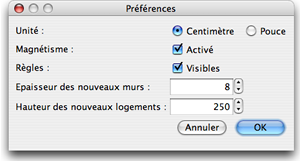
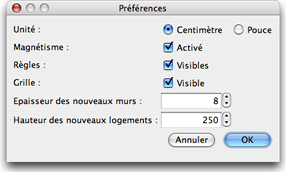
Added grid visibility to user preferences

Changed region(s): [[0.0, 0.0, 0.979, 0.9627]]

diff --git a/SweetHome3D/src/com/eteks/sweethome3d/swing/resources/help/fr/editingPreferences.html b/SweetHome3D/src/com/eteks/sweethome3d/swing/resources/help/fr/editingPreferences.html
@@ -28,7 +28,7 @@
 	<tr>
 	<td><p>Pour &eacute;diter les pr&eacute;f&eacute;rences de Sweet Home 3D, choisissez <i>Sweet Home 3D &gt; Pr&eacute;f&eacute;rences...</i> sous
 	    Mac OS X ou <i>Fichier &gt; Pr&eacute;f&eacute;rences...</i> sous les autres syst&egrave;mes d'exploitation.</p>
-	  <p align="center"><img src="images/editingPreferences.png" width="300" height="161"></p>
+	  <p align="center"><img src="images/editingPreferences.png" width="286" height="172"></p>
 	  <p>Dans le panneau des pr&eacute;f&eacute;rences, vous pouvez choisir l'<i>Unit&eacute;</i> utilis&eacute;e pour dessiner
 	    les r&egrave;gles et la grille du plan du
 	    logement, et pour afficher les longueurs. <br>
@@ -36,7 +36,9 @@
 	    au cours du dessin des murs et le positionnement des meubles.<br>
 	    La bo&icirc;te &agrave; cocher <i>R&egrave;gles</i> permet de rendre visibles ou invisibles les r&egrave;gles affich&eacute;es
 	    en haut et &agrave; gauche du plan.<br>
-	    La valeur de l'<i>Epaisseur des nouveaux murs</i> d&eacute;termine l'&eacute;paisseur des murs qui seront cr&eacute;&eacute;s
+	    La bo&icirc;te &agrave; cocher <i>Grille</i> permet de rendre visible ou invisible la grile affich&eacute;e
+	    sous le plan.<br>
+La valeur de l'<i>Epaisseur des nouveaux murs</i> d&eacute;termine l'&eacute;paisseur des murs qui seront cr&eacute;&eacute;s
 	    une fois que le panneau des pr&eacute;f&eacute;rences sera ferm&eacute;.<br>
 	    La valeur de la <i>Hauteur des nouveaux logements</i> d&eacute;termine la hauteur des murs des logements qui seront
 	    cr&eacute;&eacute;s

diff --git a/SweetHome3D/src/com/eteks/sweethome3d/swing/resources/help/en/editingPreferences.html b/SweetHome3D/src/com/eteks/sweethome3d/swing/resources/help/en/editingPreferences.html
@@ -28,18 +28,19 @@
 	<tr>
 	<td><p>To edit Sweet Home 3D preferences, choose <i>Sweet Home 3D &gt; Preferences...</i> on Mac OS X or <i>File &gt; Preferences...</i> on
 	    other systems.</p>
-	  <p align="center"><img src="images/editingPreferences.png" width="250" height="161"></p>
+	  <p align="center"><img src="images/editingPreferences.png" width="237" height="172"></p>
 	  <p>In preferences pane, you can choose the <i>Unit</i> used to draw home plan rulers and grid, and to display lengths.<br>
 	    The <i>Magnetism</i> check
 	    box enables or disables the magnetism used in home plan during <a href="drawingWalls.html">walls drawing</a> and <a href="editingFurniture.html">furniture
 	    placing</a>.<br>
 	    The <i>Rulers</i> check box allows to make plan rulers visible or invisible.<br>
-	    The <i>New walls thickness</i> value sets the thickness of all the walls that will be created once preferences pane
-	    will be closed.<br>
-	    The <i>New home walls height</i> value 
-	    sets the height of all the walls of new homes created once preferences pane will
-	    be closed.<br>
-	    </p>
+	    The <i>Grid</i> check box allows to make plan grid visible or invisible.<br>
+	      The <i>New walls thickness</i> value sets the thickness of all the walls that will be created once preferences pane
+	      will be closed.<br>
+	      The <i>New home walls height</i> value 
+	      sets the height of all the walls of new homes created once preferences pane will
+	      be closed.<br>
+        </p>
 	  </td>
 	</tr>
 </table>

diff --git a/SweetHome3D/src/com/eteks/sweethome3d/swing/UserPreferencesPanel.java b/SweetHome3D/src/com/eteks/sweethome3d/swing/UserPreferencesPanel.java
@@ -53,6 +53,8 @@ public class UserPreferencesPanel extends JPanel {
   private JCheckBox      magnetismCheckBox;
   private JLabel         rulersVisibleLabel;
   private JCheckBox      rulersCheckBox;
+  private JLabel         gridVisibleLabel;
+  private JCheckBox      gridCheckBox;
   private JLabel         newWallThicknessLabel;
   private JSpinner       newWallThicknessSpinner;
   private JLabel         newHomeWallHeightLabel;
@@ -93,6 +95,10 @@ public class UserPreferencesPanel extends JPanel {
     this.rulersCheckBox = new JCheckBox(
         this.resource.getString("rulersCheckBox.text"));
     
+    this.gridVisibleLabel = new JLabel(this.resource.getString("gridLabel.text"));
+    this.gridCheckBox = new JCheckBox(
+        this.resource.getString("gridCheckBox.text"));
+    
     this.newWallThicknessLabel = new JLabel(this.resource.getString("newWallThicknessLabel.text"));
     this.newWallThicknessSpinner = new JSpinner(new SpinnerLengthModel(
         0.5f, 0.125f, this.centimeterRadioButton));
@@ -114,6 +120,8 @@ public class UserPreferencesPanel extends JPanel {
           KeyStroke.getKeyStroke(this.resource.getString("magnetismCheckBox.mnemonic")).getKeyCode());
       this.rulersCheckBox.setMnemonic(
           KeyStroke.getKeyStroke(this.resource.getString("rulersCheckBox.mnemonic")).getKeyCode());
+      this.gridCheckBox.setMnemonic(
+          KeyStroke.getKeyStroke(this.resource.getString("gridCheckBox.mnemonic")).getKeyCode());
       this.newWallThicknessLabel.setDisplayedMnemonic(
           KeyStroke.getKeyStroke(this.resource.getString("newWallThicknessLabel.mnemonic")).getKeyCode());
       this.newWallThicknessLabel.setLabelFor(this.newWallThicknessSpinner);
@@ -153,18 +161,25 @@ public class UserPreferencesPanel extends JPanel {
         1, 2, 2, 1, 0, 0, GridBagConstraints.WEST, 
         GridBagConstraints.NONE, rightComponentInsets, 0, 0));
     
-    add(this.newWallThicknessLabel, new GridBagConstraints(
+    add(this.gridVisibleLabel, new GridBagConstraints(
         0, 3, 1, 1, 0, 0, GridBagConstraints.WEST, 
         GridBagConstraints.NONE, labelInsets, 0, 0));
+    add(this.gridCheckBox, new GridBagConstraints(
+        1, 3, 2, 1, 0, 0, GridBagConstraints.WEST, 
+        GridBagConstraints.NONE, rightComponentInsets, 0, 0));
+    
+    add(this.newWallThicknessLabel, new GridBagConstraints(
+        0, 4, 1, 1, 0, 0, GridBagConstraints.WEST, 
+        GridBagConstraints.NONE, labelInsets, 0, 0));
     add(this.newWallThicknessSpinner, new GridBagConstraints(
-        1, 3, 1, 1, 0, 0, GridBagConstraints.WEST, 
+        1, 4, 1, 1, 0, 0, GridBagConstraints.WEST, 
         GridBagConstraints.HORIZONTAL, rightComponentInsets, 0, 0));
     
     add(this.newHomeWallHeightLabel, new GridBagConstraints(
-        0, 4, 1, 1, 0, 0, GridBagConstraints.WEST, 
+        0, 5, 1, 1, 0, 0, GridBagConstraints.WEST, 
         GridBagConstraints.NONE, new Insets(0, 0, 0, 5), 0, 0));
     add(this.newHomeWallHeightSpinner, new GridBagConstraints(
-        1, 4, 1, 1, 0, 0, GridBagConstraints.WEST, 
+        1, 5, 1, 1, 0, 0, GridBagConstraints.WEST, 
         GridBagConstraints.HORIZONTAL, new Insets(0, 0, 0, 0), 0, 0));
   }
 
@@ -181,6 +196,8 @@ public class UserPreferencesPanel extends JPanel {
         preferences.isMagnetismEnabled());    
     this.rulersCheckBox.setSelected(
         preferences.isRulersVisible());    
+    this.gridCheckBox.setSelected(
+        preferences.isGridVisible());    
     ((SpinnerLengthModel)this.newWallThicknessSpinner.getModel()).
         setLength(preferences.getNewWallThickness());
     ((SpinnerLengthModel)this.newHomeWallHeightSpinner.getModel()).
@@ -220,6 +237,13 @@ public class UserPreferencesPanel extends JPanel {
    */
   public boolean isRulersVisible() {
     return this.rulersCheckBox.isSelected();
+  } 
+  
+  /**
+   * Returns <code>true</code> if grid is visible in panel.
+   */
+  public boolean isGridVisible() {
+    return this.gridCheckBox.isSelected();
   } 
   
   /**

diff --git a/SweetHome3D/test/com/eteks/sweethome3d/junit/UserPreferencesPanelTest.java b/SweetHome3D/test/com/eteks/sweethome3d/junit/UserPreferencesPanelTest.java
@@ -62,10 +62,12 @@ public class UserPreferencesPanelTest extends TestCase {
         (JRadioButton)TestUtilities.getField(panel, "centimeterRadioButton");
     JRadioButton inchRadioButton = 
         (JRadioButton)TestUtilities.getField(panel, "inchRadioButton");
-    JCheckBox    rulersCheckBox = 
-      (JCheckBox)TestUtilities.getField(panel, "rulersCheckBox");
     JCheckBox    magnetismCheckBox = 
         (JCheckBox)TestUtilities.getField(panel, "magnetismCheckBox");
+    JCheckBox    rulersCheckBox = 
+      (JCheckBox)TestUtilities.getField(panel, "rulersCheckBox");
+    JCheckBox    gridCheckBox = 
+      (JCheckBox)TestUtilities.getField(panel, "gridCheckBox");
     JSpinner newWallThicknessSpinner = 
         (JSpinner)TestUtilities.getField(panel, "newWallThicknessSpinner");
     JSpinner newHomeWallHeightSpinner = 
@@ -77,6 +79,7 @@ public class UserPreferencesPanelTest extends TestCase {
         inchRadioButton.isSelected());
     assertTrue("Magnestism isn't selected", magnetismCheckBox.isSelected());
     assertTrue("Rulers isn't selected", rulersCheckBox.isSelected());
+    assertTrue("Grid isn't selected", gridCheckBox.isSelected());
     assertEquals("Wrong default thickness", 
         newWallThicknessSpinner.getValue(), defaultPreferences.getNewWallThickness());
     assertEquals("Wrong default wall height", 
@@ -86,6 +89,7 @@ public class UserPreferencesPanelTest extends TestCase {
     inchRadioButton.setSelected(true);
     magnetismCheckBox.setSelected(false);
     rulersCheckBox.setSelected(false);
+    gridCheckBox.setSelected(false);
     newWallThicknessSpinner.setValue(1);
     newHomeWallHeightSpinner.setValue(100);
     
@@ -93,10 +97,11 @@ public class UserPreferencesPanelTest extends TestCase {
     preferences.setUnit(panel.getUnit());
     preferences.setMagnetismEnabled(panel.isMagnetismEnabled());
     preferences.setRulersVisible(panel.isRulersVisible());
+    preferences.setGridVisible(panel.isGridVisible());
     preferences.setNewWallThickness(panel.getNewWallThickness());
     preferences.setNewHomeWallHeight(panel.getNewHomeWallHeight());
     // Check preferences value
-    assertPreferencesEqual(UserPreferences.Unit.INCH, false, false,
+    assertPreferencesEqual(UserPreferences.Unit.INCH, false, false, false,
         UserPreferences.Unit.inchToCentimeter(1), 
         UserPreferences.Unit.inchToCentimeter(100), 
         preferences);
@@ -108,6 +113,7 @@ public class UserPreferencesPanelTest extends TestCase {
     assertPreferencesEqual(preferences.getUnit(),
         preferences.isMagnetismEnabled(), 
         preferences.isRulersVisible(), 
+        preferences.isGridVisible(), 
         preferences.getNewWallThickness(),  
         preferences.getNewHomeWallHeight(), readPreferences);
   }
@@ -119,6 +125,7 @@ public class UserPreferencesPanelTest extends TestCase {
   private void assertPreferencesEqual(UserPreferences.Unit unit,
                                       boolean magnetism,
                                       boolean rulers,
+                                      boolean grid,
                                       float newWallThickness,
                                       float newHomeWallHeight,
                                       UserPreferences preferences) {
@@ -128,6 +135,8 @@ public class UserPreferencesPanelTest extends TestCase {
         preferences.isMagnetismEnabled());
     assertEquals("Wrong rulers visibility", rulers,
         preferences.isRulersVisible());
+    assertEquals("Wrong grid visibility", grid,
+        preferences.isGridVisible());
     assertEquals("Wrong new wall thickness", newWallThickness, 
         preferences.getNewWallThickness());
     assertEquals("Wrong new home wall height", newHomeWallHeight,

diff --git a/SweetHome3D/src/com/eteks/sweethome3d/swing/PlanComponent.java b/SweetHome3D/src/com/eteks/sweethome3d/swing/PlanComponent.java
@@ -354,6 +354,8 @@ public class PlanComponent extends JComponent implements Scrollable, Printable {
       });
     preferences.addPropertyChangeListener(UserPreferences.Property.UNIT, 
         new UnitChangeListener(this));
+    preferences.addPropertyChangeListener(UserPreferences.Property.GRID_VISIBLE, 
+        new GridVisibleChangeListener(this));
   }
 
   /**
@@ -381,6 +383,29 @@ public class PlanComponent extends JComponent implements Scrollable, Printable {
         if (planComponent.verticalRuler != null) {
           planComponent.verticalRuler.repaint();
         }
+      }
+    }
+  }
+
+  /**
+   * Preferences property listener bound to this component with a weak reference to avoid
+   * strong link between preferences and this component.  
+   */
+  private static class GridVisibleChangeListener implements PropertyChangeListener {
+    private WeakReference<PlanComponent>  planComponent;
+
+    public GridVisibleChangeListener(PlanComponent planComponent) {
+      this.planComponent = new WeakReference<PlanComponent>(planComponent);
+    }
+    
+    public void propertyChange(PropertyChangeEvent ev) {
+      // If plan component was garbage collected, remove this listener from preferences
+      PlanComponent planComponent = this.planComponent.get();
+      if (planComponent == null) {
+        ((UserPreferences)ev.getSource()).removePropertyChangeListener(
+            UserPreferences.Property.UNIT, this);
+      } else {
+        planComponent.repaint();
       }
     }
   }
@@ -655,7 +680,9 @@ public class PlanComponent extends JComponent implements Scrollable, Printable {
     setRenderingHints(g2D);
     // Paint component contents
     paintBackgroundImage(g2D);
-    paintGrid(g2D, this.scale);
+    if (this.preferences.isGridVisible()) {
+      paintGrid(g2D, this.scale);
+    }
     paintContent(g2D, this.scale, backgroundColor, foregroundColor, PaintMode.PAINT);   
     g2D.dispose();
   }

diff --git a/SweetHome3D/src/com/eteks/sweethome3d/model/UserPreferences.java b/SweetHome3D/src/com/eteks/sweethome3d/model/UserPreferences.java
@@ -30,7 +30,7 @@ import java.util.List;
  * @author Emmanuel Puybaret
  */
 public abstract class UserPreferences {
-  public enum Property {UNIT, MAGNETISM_ENABLED, RULERS_VISIBLE,  
+  public enum Property {UNIT, MAGNETISM_ENABLED, RULERS_VISIBLE, GRID_VISIBLE, 
                         NEW_HOME_WALL_HEIGHT, NEW_WALL_THICKNESS, RECENT_HOMES}
   
   private PropertyChangeSupport propertyChangeSupport;
@@ -58,6 +58,7 @@ public abstract class UserPreferences {
   private Unit         unit;
   private boolean      magnetismEnabled = true;
   private boolean      rulersVisible    = true;
+  private boolean      gridVisible      = true;
   private float        newWallThickness;
   private float        newHomeWallHeight;
   private List<String> recentHomes;
@@ -159,6 +160,28 @@ public abstract class UserPreferences {
       this.rulersVisible = rulersVisible;
       this.propertyChangeSupport.firePropertyChange(Property.RULERS_VISIBLE.toString(), 
           !rulersVisible, rulersVisible);
+    }
+  }
+  
+  /**
+   * Returns <code>true</code> if plan grid visible.
+   * @return <code>true</code> by default.
+   */
+  public boolean isGridVisible() {
+    return this.gridVisible;
+  }
+  
+  /**
+   * Sets whether plan grid is visible or not, and notifies
+   * listeners of this change. 
+   * @param gridVisible <code>true</code> if grid is visible,
+   *          <code>false</code> otherwise.
+   */
+  public void setGridVisible(boolean gridVisible) {
+    if (this.gridVisible != gridVisible) {
+      this.gridVisible = gridVisible;
+      this.propertyChangeSupport.firePropertyChange(Property.GRID_VISIBLE.toString(), 
+          !gridVisible, gridVisible);
     }
   }
 

diff --git a/SweetHome3D/src/com/eteks/sweethome3d/io/FileUserPreferences.java b/SweetHome3D/src/com/eteks/sweethome3d/io/FileUserPreferences.java
@@ -54,6 +54,7 @@ public class FileUserPreferences extends UserPreferences {
   private static final String UNIT                      = "unit";
   private static final String MAGNETISM_ENABLED         = "magnetismEnabled";
   private static final String RULERS_VISIBLE            = "rulersVisible";
+  private static final String GRID_VISIBLE              = "gridVisible";
   private static final String NEW_HOME_WALL_HEIGHT      = "newHomeWallHeight";
   private static final String NEW_WALL_THICKNESS        = "newWallThickness";
   private static final String RECENT_HOMES              = "recentHomes#";
@@ -106,6 +107,7 @@ public class FileUserPreferences extends UserPreferences {
     setUnit(unit);
     setMagnetismEnabled(preferences.getBoolean(MAGNETISM_ENABLED, true));
     setRulersVisible(preferences.getBoolean(RULERS_VISIBLE, true));
+    setGridVisible(preferences.getBoolean(GRID_VISIBLE, true));
     setNewWallThickness(preferences.getFloat(NEW_WALL_THICKNESS, 
             defaultPreferences.getNewWallThickness()));
     setNewHomeWallHeight(preferences.getFloat(NEW_HOME_WALL_HEIGHT,
@@ -213,6 +215,7 @@ public class FileUserPreferences extends UserPreferences {
     preferences.put(UNIT, getUnit().toString());   
     preferences.putBoolean(MAGNETISM_ENABLED, isMagnetismEnabled());
     preferences.putBoolean(RULERS_VISIBLE, isRulersVisible());
+    preferences.putBoolean(GRID_VISIBLE, isGridVisible());
     preferences.putFloat(NEW_WALL_THICKNESS, getNewWallThickness());   
     preferences.putFloat(NEW_HOME_WALL_HEIGHT, getNewHomeWallHeight());
     // Write recent homes list

diff --git a/SweetHome3D/src/com/eteks/sweethome3d/swing/HomeController.java b/SweetHome3D/src/com/eteks/sweethome3d/swing/HomeController.java
@@ -1104,6 +1104,7 @@ public class HomeController  {
       this.preferences.setUnit(preferencesPanel.getUnit());
       this.preferences.setMagnetismEnabled(preferencesPanel.isMagnetismEnabled());
       this.preferences.setRulersVisible(preferencesPanel.isRulersVisible());
+      this.preferences.setGridVisible(preferencesPanel.isGridVisible());
       this.preferences.setNewWallThickness(preferencesPanel.getNewWallThickness());
       this.preferences.setNewHomeWallHeight(preferencesPanel.getNewHomeWallHeight());
       try {
